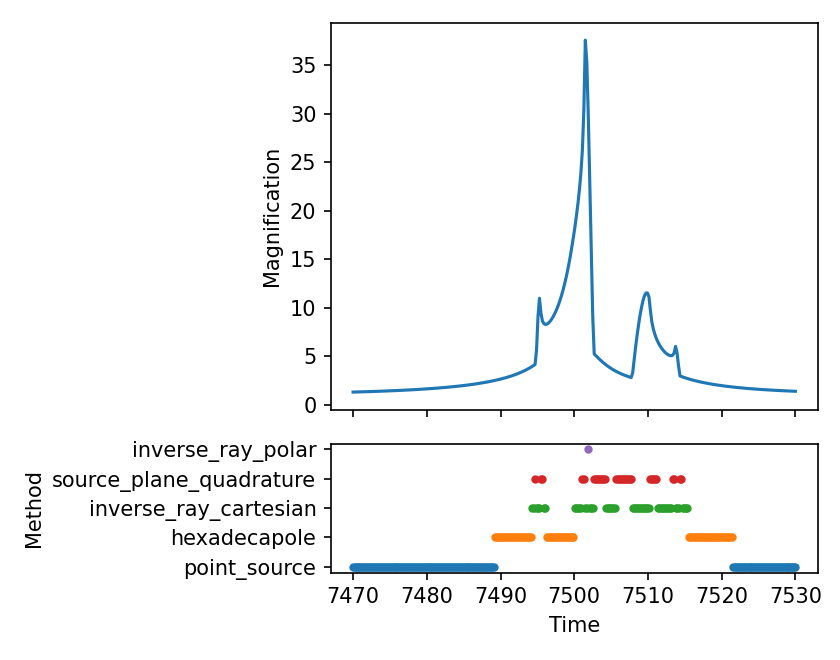
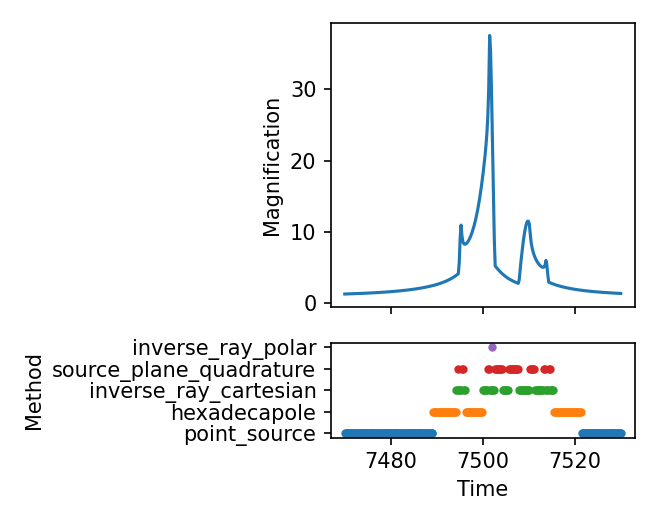
docs: reduce tutorial figure sizes

diff --git a/example/docs-python/generate_figures.py b/example/docs-python/generate_figures.py
@@ -43,13 +43,13 @@ def standard_binary():
     magnifications = curve(times, params)
     trajectory = curve.source_trajectory(times, params)
 
-    plt.figure(figsize=(4.8, 3.2))
+    plt.figure(figsize=(3.6, 2.4))
     plt.plot(times, magnifications)
     plt.xlabel("Time")
     plt.ylabel("Magnification")
     save("BinaryLens_lightcurve.png")
 
-    plt.figure(figsize=(4, 4))
+    plt.figure(figsize=(3.2, 3.2))
     plot_caustics(curve.caustics(params), color="tab:red", lw=1.1)
     plt.plot(
         -np.asarray(trajectory.x), -np.asarray(trajectory.y), color="tab:blue"
@@ -69,7 +69,7 @@ def binary_lens_images():
     critical_curves = image_plane.critical_curves()
     image_regions = image_plane.ray_shooting_images(resolution=300)
 
-    fig, (source_ax, image_ax) = plt.subplots(1, 2, figsize=(8, 3.6))
+    fig, (source_ax, image_ax) = plt.subplots(1, 2, figsize=(6.4, 3.0))
     for x, y in zip(caustics.x, caustics.y):
         source_ax.plot(x, y, color="tab:red", lw=1.1)
     source_ax.scatter([y1], [y2], marker="*", color="tab:blue")
@@ -99,13 +99,13 @@ def standard_triple():
     magnifications = curve(times, params)
     trajectory = curve.source_trajectory(times, params)
 
-    plt.figure(figsize=(4.8, 3.2))
+    plt.figure(figsize=(3.6, 2.4))
     plt.plot(times, magnifications)
     plt.xlabel("Time")
     plt.ylabel("Magnification")
     save("TripleLens_lightcurve.png")
 
-    plt.figure(figsize=(4, 4))
+    plt.figure(figsize=(3.2, 3.2))
     plot_caustics(curve.caustics(params), color="tab:red", lw=1.1)
     plt.plot(
         -np.asarray(trajectory.x), -np.asarray(trajectory.y), color="tab:blue"
@@ -120,12 +120,12 @@ def critical_curves_and_caustics():
     params = dict(s=0.6, q=0.1)
     curve = lcbinint.LightCurve(options=lcbinint.Options(caustic_bins=200))
 
-    plt.figure(figsize=(4, 4))
+    plt.figure(figsize=(3.2, 3.2))
     plot_caustics(curve.caustics(params), color="tab:red", lw=1.1)
     plt.axis("equal")
     save("Caustics_binary.png")
 
-    plt.figure(figsize=(4, 4))
+    plt.figure(figsize=(3.2, 3.2))
     plot_branches(curve.critical_curves(params), color="tab:blue")
     plt.axis("equal")
     save("Criticalcurves_binary.png")
@@ -152,14 +152,14 @@ def parallax():
     static_trajectory = static.source_trajectory(times, params)
     moved_trajectory = moved.source_trajectory(times, params)
 
-    plt.figure(figsize=(4.8, 3.2))
+    plt.figure(figsize=(3.6, 2.4))
     plt.plot(times, static_mag, "g")
     plt.plot(times, moved_mag, "m")
     plt.xlabel("Time")
     plt.ylabel("Magnification")
     save("BinaryLens_lightcurve_parallax.png")
 
-    plt.figure(figsize=(4, 4))
+    plt.figure(figsize=(3.2, 3.2))
     plot_caustics(static.caustics(params), color="tab:red", lw=1.1)
     plt.plot(
         -np.asarray(static_trajectory.x), -np.asarray(static_trajectory.y),
@@ -198,7 +198,7 @@ def parallax():
     ground_mag = ground(times, params)
     space_mag = space(times, params)
     fig, (curve_ax, difference_ax) = plt.subplots(
-        2, 1, sharex=True, figsize=(5.6, 4.8),
+        2, 1, sharex=True, figsize=(4.4, 3.6),
         gridspec_kw={"height_ratios": [3, 1]},
     )
     curve_ax.plot(times, ground_mag, label="ground: Chile")
@@ -231,7 +231,7 @@ def parallax():
     africa_mag = africa(times, params)
     chile_mag = chile(times, params)
     fig, (curve_ax, difference_ax) = plt.subplots(
-        2, 1, sharex=True, figsize=(5.6, 4.8),
+        2, 1, sharex=True, figsize=(4.4, 3.6),
         gridspec_kw={"height_ratios": [3, 1]},
     )
     curve_ax.plot(times, africa_mag, label="Africa: 29 S, 20 E")
@@ -268,7 +268,7 @@ def orbital_motion():
     )
     trajectory = orbital.source_trajectory(times, params)
 
-    plt.figure(figsize=(4.8, 3.2))
+    plt.figure(figsize=(3.6, 2.4))
     plt.plot(times, static(times, params), "g")
     plt.plot(times, moved(times, params), "m")
     plt.plot(times, orbital(times, params), "y")
@@ -278,7 +278,7 @@ def orbital_motion():
 
     indices = [100, 150, 200]
     colors = [(0, 0, 1, 1), (0.4, 0, 0.6, 1), (0.6, 0, 0.4, 1)]
-    plt.figure(figsize=(4, 4))
+    plt.figure(figsize=(3.2, 3.2))
     for index, color in zip(indices, colors):
         plot_caustics(orbital.caustics(float(times[index]), params), color=color, lw=1.1)
     source_x = -np.asarray(trajectory.x)
@@ -305,7 +305,7 @@ def binary_source():
         options=options,
     )
 
-    plt.figure(figsize=(4.8, 3.2))
+    plt.figure(figsize=(3.6, 2.4))
     static_params = dict(params, w1=0.0, w2=0.0, w3=0.0)
     plt.plot(times, xallarap(times, static_params))
     plt.plot(times, xallarap(times, params), "y")
@@ -345,7 +345,7 @@ def binary_source_binary_lens():
         key: value for key, value in params.items()
         if key not in {"q_source", "q_mass", "xi_1", "xi_2", "w1", "w2", "w3"}
     }
-    plt.figure(figsize=(4.8, 3.2))
+    plt.figure(figsize=(3.6, 2.4))
     plt.plot(
         times, single_source(times, single_source_params), "y",
         label="single source + lens orbit",
@@ -380,7 +380,7 @@ def limb_darkening():
         )
         for xi in x
     ])
-    plt.figure(figsize=(4.8, 3.2))
+    plt.figure(figsize=(3.6, 2.4))
     plt.plot(x, uniform, label="uniform")
     plt.plot(x, linear, label="linear: 0.51")
     plt.plot(x, square_root, label="square root: 0.51, 0.3")
@@ -404,7 +404,7 @@ def accuracy_method_selection():
     names = list(dict.fromkeys(methods.tolist()))
 
     fig, (light_ax, method_ax) = plt.subplots(
-        2, 1, figsize=(5.6, 4.4), sharex=True,
+        2, 1, figsize=(4.4, 3.5), sharex=True,
         gridspec_kw={"height_ratios": [3, 1]},
     )
     light_ax.plot(times, magnifications)
@@ -426,7 +426,7 @@ def coordinates():
         options=lcbinint.Options(coordinates="vbm", caustic_bins=600)
     )
     trajectory = curve.source_trajectory(times, params)
-    plt.figure(figsize=(4, 4))
+    plt.figure(figsize=(3.2, 3.2))
     plot_caustics(curve.caustics(params), color="tab:red", lw=1.1)
     display_x = -np.asarray(trajectory.x)
     display_y = -np.asarray(trajectory.y)
@@ -473,7 +473,7 @@ def combined_effects():
         key: value for key, value in params.items()
         if key not in {"q_source", "q_mass", "xi_1", "xi_2", "w1", "w2", "w3"}
     }
-    plt.figure(figsize=(6.4, 4))
+    plt.figure(figsize=(5, 3.2))
     plt.plot(times, static(times, single_source_params), label="static 2L1S")
     plt.plot(times, parallax_curve(times, single_source_params), label="+ parallax")
     plt.plot(times, parallax_orbit(times, single_source_params), label="+ lens orbit")
@@ -488,7 +488,7 @@ def combined_effects():
     display_y = -np.asarray(trajectory.y)
     indices = [75, 150, 225]
     colors = ["tab:blue", "tab:purple", "tab:red"]
-    plt.figure(figsize=(4.8, 4.8))
+    plt.figure(figsize=(3.8, 3.8))
     for index, color in zip(indices, colors):
         plot_caustics(
             combined.caustics(float(times[index]), params), color=color, lw=1.1

diff --git a/python/lcbinint/image.py b/python/lcbinint/image.py
@@ -168,7 +168,7 @@ class ImagePlane:
         if ax is None:
             import matplotlib.pyplot as plt
 
-            _, ax = plt.subplots(figsize=(4.8, 4.8))
+            _, ax = plt.subplots(figsize=(3.8, 3.8))
 
         if critical_curves:
             self._plot_branches(

diff --git a/docs/python/LightCurves.md b/docs/python/LightCurves.md
@@ -35,7 +35,7 @@ trajectory = curve.source_trajectory(t, params)
 Plot only the light curve:
 
 ```python
-plt.figure(figsize=(4.8, 3.2))
+plt.figure(figsize=(3.6, 2.4))
 plt.plot(t, magnifications)
 plt.xlabel("Time")
 plt.ylabel("Magnification")
@@ -49,7 +49,7 @@ Calculate and plot the caustics and source trajectory separately:
 ```python
 caustics = curve.caustics(params)
 
-plt.figure(figsize=(4, 4))
+plt.figure(figsize=(3.2, 3.2))
 for x, y in zip(caustics.x, caustics.y):
     plt.plot(-np.asarray(x), -np.asarray(y), color="tab:red", lw=1.1)
 plt.plot(-np.asarray(trajectory.x), -np.asarray(trajectory.y), color="tab:blue")
@@ -93,7 +93,7 @@ trajectory = curve.source_trajectory(t, params)
 Plot only the light curve:
 
 ```python
-plt.figure(figsize=(4.8, 3.2))
+plt.figure(figsize=(3.6, 2.4))
 plt.plot(t, magnifications)
 plt.xlabel("Time")
 plt.ylabel("Magnification")
@@ -107,7 +107,7 @@ Calculate and plot the caustics and source trajectory separately:
 ```python
 caustics = curve.caustics(params)
 
-plt.figure(figsize=(4, 4))
+plt.figure(figsize=(3.2, 3.2))
 for x, y in zip(caustics.x, caustics.y):
     plt.plot(-np.asarray(x), -np.asarray(y), color="tab:red", lw=1.1)
 plt.plot(-np.asarray(trajectory.x), -np.asarray(trajectory.y), color="tab:blue")

diff --git a/docs/python/Parallax.md b/docs/python/Parallax.md
@@ -50,7 +50,7 @@ trajectory_parallax = parallax_curve.source_trajectory(t, params)
 Plot the static and parallax light curves:
 
 ```python
-plt.figure(figsize=(4.8, 3.2))
+plt.figure(figsize=(3.6, 2.4))
 plt.plot(t, magnifications, "g")
 plt.plot(t, magnifications_parallax, "m")
 plt.xlabel("Time")
@@ -65,7 +65,7 @@ Plot the caustics and trajectories in a separate block:
 ```python
 caustics = static_curve.caustics(params)
 
-plt.figure(figsize=(4, 4))
+plt.figure(figsize=(3.2, 3.2))
 for x, y in zip(caustics.x, caustics.y):
     plt.plot(-np.asarray(x), -np.asarray(y), color="tab:red", lw=1.1)
 plt.plot(
@@ -122,7 +122,7 @@ spacecraft contribution in a difference panel:
 
 ```python
 fig, (curve_ax, difference_ax) = plt.subplots(
-    2, 1, sharex=True, figsize=(5.6, 4.8),
+    2, 1, sharex=True, figsize=(4.4, 3.6),
     gridspec_kw={"height_ratios": [3, 1]},
 )
 curve_ax.plot(t, magnifications_ground, label="ground: Chile")
@@ -167,7 +167,7 @@ panel:
 
 ```python
 fig, (curve_ax, difference_ax) = plt.subplots(
-    2, 1, sharex=True, figsize=(5.6, 4.8),
+    2, 1, sharex=True, figsize=(4.4, 3.6),
     gridspec_kw={"height_ratios": [3, 1]},
 )
 curve_ax.plot(t, magnifications_africa, label="Africa: 29 S, 20 E")

diff --git a/docs/python/BinarySources.md b/docs/python/BinarySources.md
@@ -65,7 +65,7 @@ magnifications_xallarap = xallarap_curve(t, params)
 Plot the two light curves in their own block:
 
 ```python
-plt.figure(figsize=(4.8, 3.2))
+plt.figure(figsize=(3.6, 2.4))
 plt.plot(t, magnifications_static)
 plt.plot(t, magnifications_xallarap, "y")
 plt.xlabel("Time")
@@ -148,7 +148,7 @@ The figure makes the extra binary-source and xallarap terms visible instead of
 leaving the combined calculation as a single printed array:
 
 ```python
-plt.figure(figsize=(4.8, 3.2))
+plt.figure(figsize=(3.6, 2.4))
 plt.plot(t, magnifications_single_source, "y", label="single source + lens orbit")
 plt.plot(t, magnifications_binary_source, "g", label="binary source + xallarap")
 plt.xlabel("Time")

diff --git a/docs/python/OrbitalMotion.md b/docs/python/OrbitalMotion.md
@@ -58,7 +58,7 @@ trajectory_orbital = orbital_curve.source_trajectory(t, params)
 Plot the three light curves:
 
 ```python
-plt.figure(figsize=(4.8, 3.2))
+plt.figure(figsize=(3.6, 2.4))
 plt.plot(t, magnifications, "g")
 plt.plot(t, magnifications_parallax, "m")
 plt.plot(t, magnifications_orbital, "y")
@@ -75,7 +75,7 @@ Plot caustics at the same three array indices used in the example:
 caustic_indices = [100, 150, 200]
 colors = [(0, 0, 1, 1), (0.4, 0, 0.6, 1), (0.6, 0, 0.4, 1)]
 
-plt.figure(figsize=(4, 4))
+plt.figure(figsize=(3.2, 3.2))
 for index, color in zip(caustic_indices, colors):
     caustics = orbital_curve.caustics(float(t[index]), params)
     for x, y in zip(caustics.x, caustics.y):

diff --git a/docs/python/CriticalCurvesAndCaustics.md b/docs/python/CriticalCurvesAndCaustics.md
@@ -26,7 +26,7 @@ params = {"s": s, "q": q}
 curve = lcbinint.LightCurve(options=lcbinint.Options(caustic_bins=200))
 caustics = curve.caustics(params)
 
-fig = plt.figure(figsize=(4, 4))
+fig = plt.figure(figsize=(3.2, 3.2))
 for x, y in zip(caustics.x, caustics.y):
     plt.plot(-np.asarray(x), -np.asarray(y), color="tab:red", lw=1.1)
 plt.axis("equal")
@@ -40,7 +40,7 @@ Calculate and plot the critical curves in a new block:
 ```python
 critical_curves = curve.critical_curves(params)
 
-fig = plt.figure(figsize=(4, 4))
+fig = plt.figure(figsize=(3.2, 3.2))
 for x, y in zip(critical_curves.x, critical_curves.y):
     plt.plot(-np.asarray(x), -np.asarray(y), color="tab:blue")
 plt.axis("equal")

diff --git a/docs/python/CombinedEffects.md b/docs/python/CombinedEffects.md
@@ -98,7 +98,7 @@ combined_mag = combined(t, params)
 Plot the cumulative effect on the light curve:
 
 ```python
-plt.figure(figsize=(6.4, 4))
+plt.figure(figsize=(5, 3.2))
 plt.plot(t, static_mag, label="static 2L1S")
 plt.plot(t, parallax_mag, label="+ parallax")
 plt.plot(t, orbit_mag, label="+ lens orbit")
@@ -120,7 +120,7 @@ display_y = -np.asarray(trajectory.y)
 indices = [75, 150, 225]
 colors = ["tab:blue", "tab:purple", "tab:red"]
 
-plt.figure(figsize=(4.8, 4.8))
+plt.figure(figsize=(3.8, 3.8))
 for index, color in zip(indices, colors):
     caustics = combined.caustics(float(t[index]), params)
     for x, y in zip(caustics.x, caustics.y):

diff --git a/docs/python/AccuracyControl.md b/docs/python/AccuracyControl.md
@@ -128,7 +128,7 @@ method_names = list(dict.fromkeys(info.finite_source_method_names))
 method_index = {name: index for index, name in enumerate(method_names)}
 selected = [method_index[name] for name in info.finite_source_method_names]
 
-fig, (mag_ax, method_ax) = plt.subplots(2, 1, sharex=True, figsize=(5.6, 4.8))
+fig, (mag_ax, method_ax) = plt.subplots(2, 1, sharex=True, figsize=(4.4, 3.5))
 mag_ax.plot(t, info.magnifications)
 mag_ax.set_ylabel("Magnification")
 method_ax.scatter(t, selected, s=10)

diff --git a/docs/python/BinaryLenses.md b/docs/python/BinaryLenses.md
@@ -53,7 +53,7 @@ caustics = image_plane.caustics()
 critical_curves = image_plane.critical_curves()
 image_regions = image_plane.ray_shooting_images(resolution=300)
 
-fig, (source_ax, image_ax) = plt.subplots(1, 2, figsize=(8, 3.6))
+fig, (source_ax, image_ax) = plt.subplots(1, 2, figsize=(6.4, 3.0))
 
 for x, y in zip(caustics.x, caustics.y):
     source_ax.plot(x, y, color="tab:red", lw=1.1)

diff --git a/docs/python/Coordinates.md b/docs/python/Coordinates.md
@@ -39,7 +39,7 @@ caustics = curve.caustics(params)
 display_x = -np.asarray(trajectory.x)
 display_y = -np.asarray(trajectory.y)
 
-plt.figure(figsize=(4, 4))
+plt.figure(figsize=(3.2, 3.2))
 for x, y in zip(caustics.x, caustics.y):
     plt.plot(-np.asarray(x), -np.asarray(y), color="tab:red", lw=1.1)
 plt.plot(display_x, display_y, color="tab:blue")
